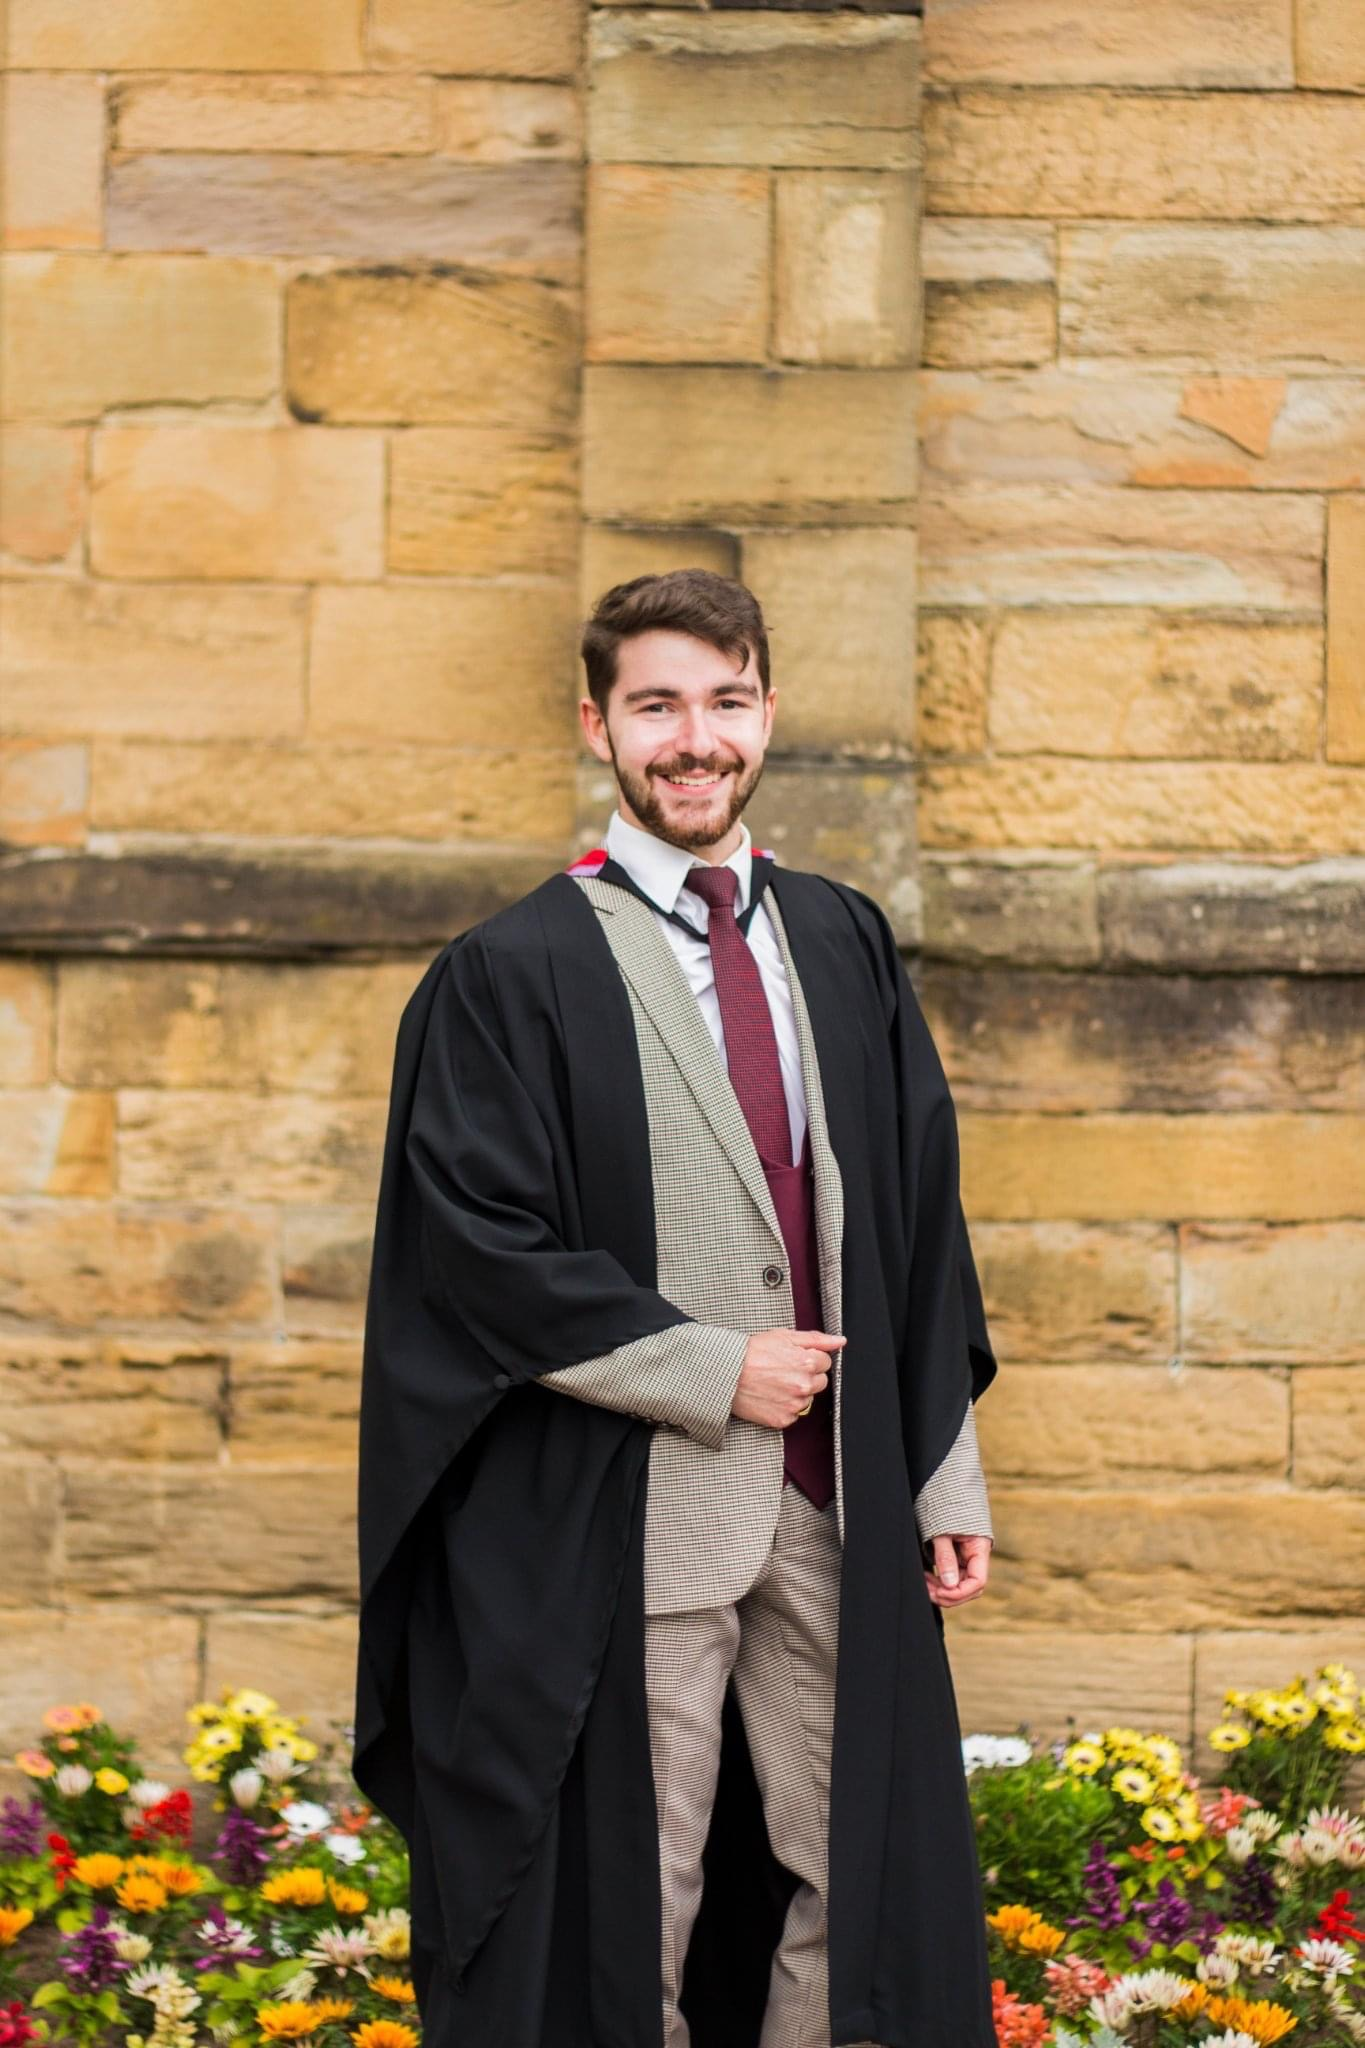
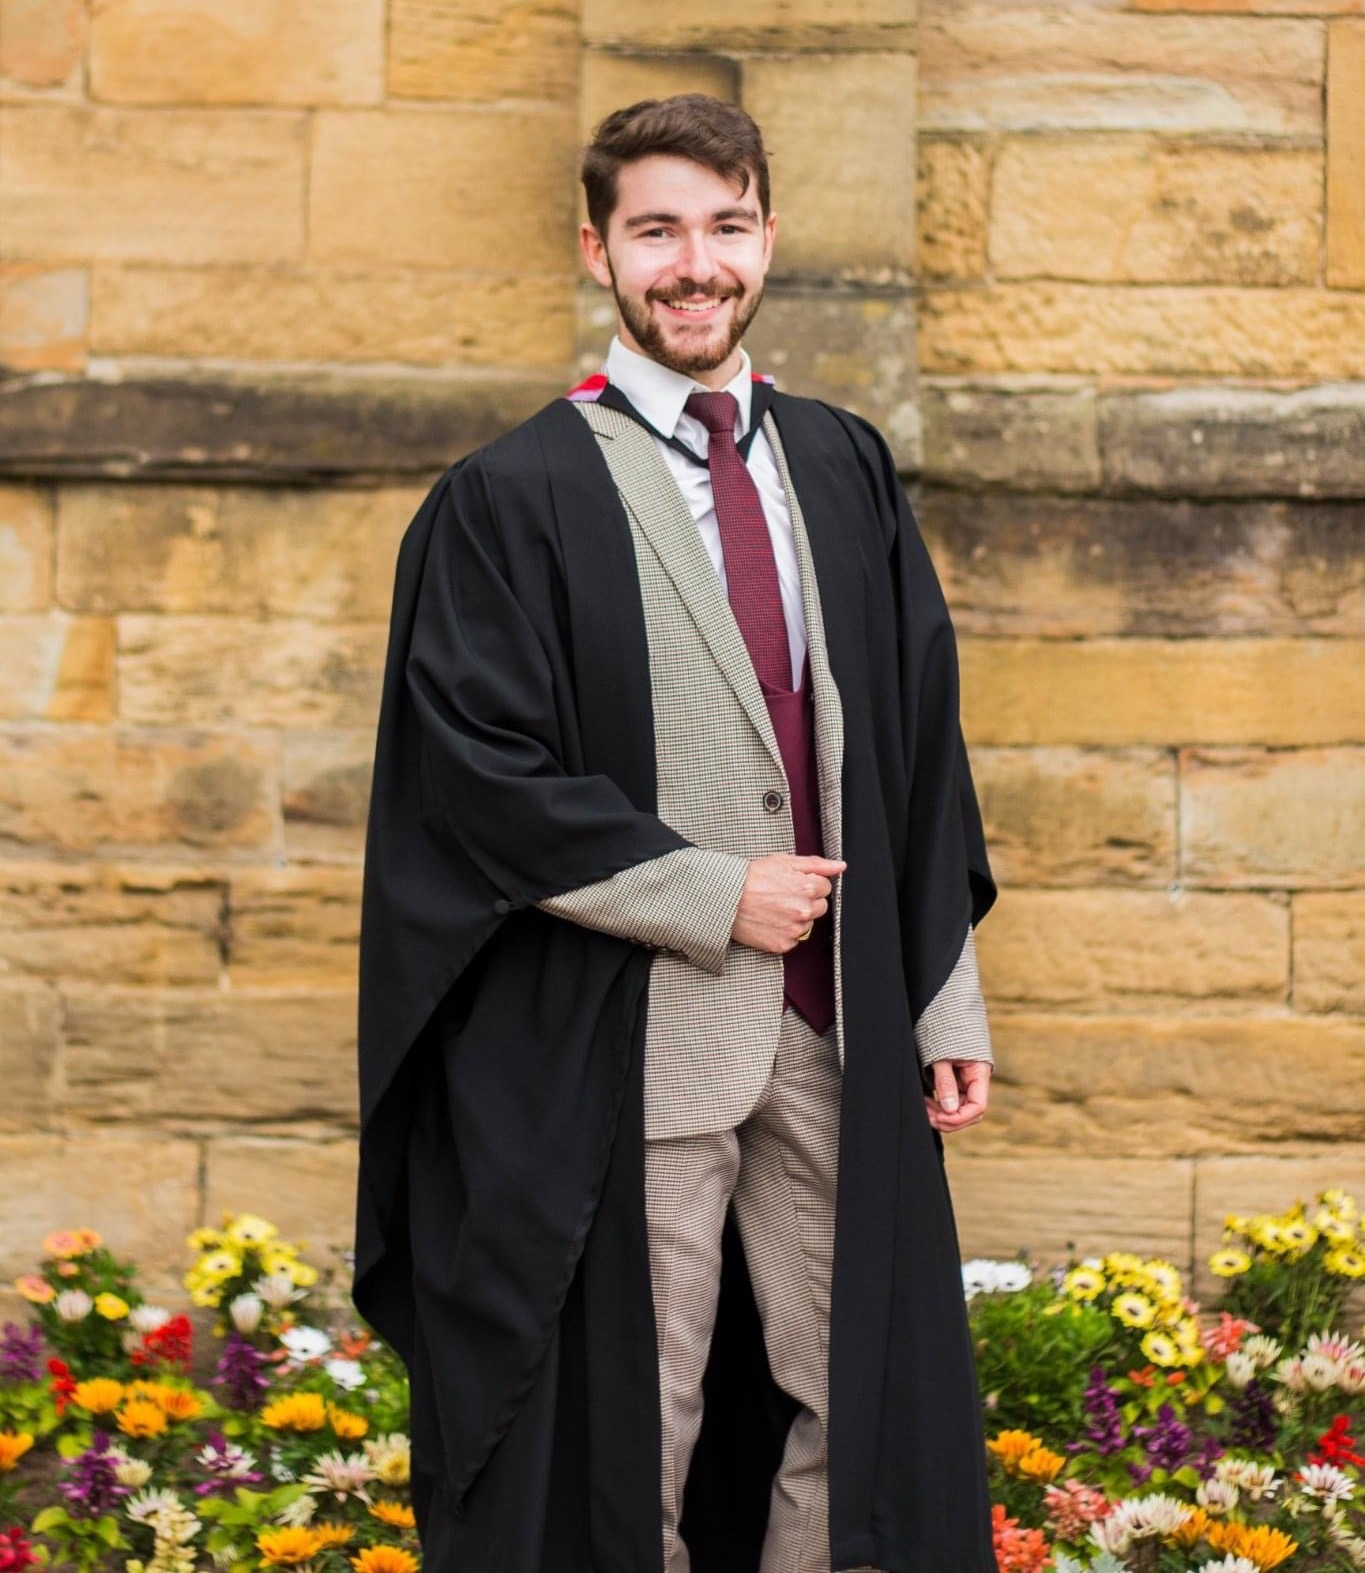
updated to show graduated

diff --git a/index.html b/index.html
@@ -86,50 +86,51 @@
 
         <div class="row">
           <div class="col-lg-4">
-            <img src="assets/img/profile-img2.jpg" class="img-fluid" alt="" style="border-radius: 25px;">
+            <img src="assets/img/FullBW.JPEG" class="img-fluid" alt="" style="border-radius: 25px;">
           </div>
           <div class="col-lg-8 pt-4 pt-lg-0 content">
             <h2 style="text-transform: none; font-weight: 500;">Hello World.</h2>
             <p class="fst-italic">
-              I am a high-achieving computer science undergraduate with relevant industry experience in risk, finance
-              and treasury technology, mental health services and customer-facing sales roles. I am self-motivated, a
-              dedicated problem finder &amp; solver and have had the opportunity to collaborate with a diverse and
-              varied group of people.
+              I am a high-achieving computer science graduate with relevant industry experience in risk, finance and
+              treasury technology, distributed cloud resource monitoring, Agile workflows and customer-facing sales roles.
+              I am a self-motivated, dedicated problem finder & solver and have had the opportunity to collaborate with
+              a diverse and varied group of people.
 
-              <br><br>Combining this experience with 7 years of computer science study has allowed me to gain experience
-              with a breadth of technologies and more importantly, the ability to adapt, educate and innovate within a
-              changing technology stack.
+              <br><br>Combining this experience with 8 years of computer science study has allowed me to develop skills with a
+              breadth of technologies and more importantly, the ability to adapt, educate and innovate within a changing
+              technology stack. These studies culminated in achieving a grade of 81% in my dissertation which I hope to
+              soon publish.
 
-              <br><br>Through industrial and personal experience, I have developed scientific models, automated
-              reporting processes, contributed educational resources to national programmes and taken ownership of
-              multiple projects.<br>
+              <br><br>Through industrial and personal experience, I have developed scientific models, automated reporting
+              processes, contributed educational resources to national programmes and investigated cybersecurity flaws
+              applying to over 75% of the UK population.
             </p>
             <div class="row">
               <div class="col-lg-6">
                 <ul>
                   <li></li>
-                  <li><i class="bi bi-chevron-right"></i> <strong>Graduating:</strong> <span>1 July 2022</span></li>
+                  <li><i class="bi bi-chevron-right"></i> <strong>Graduated:</strong> <span>28th of June 2022</span></li>
                   <li><i class="bi bi-chevron-right"></i> <strong>University:</strong> <span>Durham University,
                       UK</span></li>
                   <li><i class="bi bi-chevron-right"></i> <strong>Course:</strong> <span>Computer Science</span></li>
                   <li><i class="bi bi-chevron-right"></i> <strong>Degree:</strong> <span>Masters of Engineering</span>
                   </li>
+                  <li><i class="bi bi-chevron-right"></i> <strong>Classification:</strong> <span>First Class (Hons)</span></li>
                 </ul>
               </div>
               <div class="col-lg-6">
                 <ul>
                   <li></li>
-                  <li><i class="bi bi-chevron-right"></i> <strong>Location:</strong> <span>West Midlands, UK</span></li>
+                  <li><i class="bi bi-chevron-right"></i> <strong>Location:</strong> <span>London, UK</span></li>
                   <li><i class="bi bi-chevron-right"></i> <strong>Relocation:</strong> <span>Possible</span></li>
-                  <li><i class="bi bi-chevron-right"></i> <strong>Employment:</strong> <span>Available</span></li>
+                  <li><i class="bi bi-chevron-right"></i> <strong>Employment:</strong> <span>Incoming SDE at Amazon</span></li>
                   <li><i class="bi bi-chevron-right"></i> <strong>Email:</strong> <span><a
                         href="mailto:josh@jbfh.com">josh@jbfh.com</a></span></span></li>
                 </ul>
               </div>
               <p class="fst-italic">
-                With career goals in Solutions Architecture, Data Science and Software Development, my real goal is to
-                use technology and my creativity to bring a real improvement to the lives of my customers. If you feel
-                that this is the kind of opportunity you might be able to provide, please get in touch!
+                With career goals in Solutions Architecture, Data Science and Software Development, my real objective is
+              to use technology and my creativity to bring a tangible improvement to the lives of my customers.
               </p>
             </div>
           </div>
@@ -151,16 +152,16 @@
           <div class="col-lg-3 col-md-6">
             <div class="count-box">
               <i class="bi bi-diagram-3"></i>
-              <span data-purecounter-start="0" data-purecounter-end="21" data-purecounter-duration="1"
+              <span data-purecounter-start="0" data-purecounter-end="28" data-purecounter-duration="1"
                 class="purecounter"></span>
-              <p>Topics Studied</p>
+              <p>Modules Studied</p>
             </div>
           </div>
 
           <div class="col-lg-3 col-md-6 mt-5 mt-lg-0">
             <div class="count-box">
               <i class="bi bi-percent"></i>
-              <span data-purecounter-start="0" data-purecounter-end="77" data-purecounter-duration="1"
+              <span data-purecounter-start="0" data-purecounter-end="74" data-purecounter-duration="1"
                 class="purecounter"></span>
               <p>Weighted Average</p>
             </div>
@@ -169,7 +170,7 @@
           <div class="col-lg-3 col-md-6 mt-5 mt-md-0">
             <div class="count-box">
               <i class="bi bi-award"></i>
-              <span data-purecounter-start="0" data-purecounter-end="7" data-purecounter-duration="1"
+              <span data-purecounter-start="0" data-purecounter-end="9" data-purecounter-duration="1"
                 class="purecounter"></span>
               <p>Awards &amp; Certificates</p>
             </div>
@@ -302,7 +303,7 @@
                   and have collaborated with a diverse and varied group of
                   people.</em></p>
               <ul>
-                <li>West Midlands, UK</li>
+                <li>London, UK</li>
                 <li><a href="mailto:josh@jbfh.com">josh@jbfh.com</a></li>
                 <li><a href="https://www.linkedin.com/in/jbfh/">https://www.linkedin.com/in/jbfh/</a></li>
                 <li><a href="https://github.com/JBFH-Dev">https://github.com/JBFH-Dev</a></li>
@@ -314,12 +315,13 @@
               <h4>Durham University, UK</h4>
               <h5>2018 - 2022</h5>
               <p><em>MEng Computer Science</em></p>
-              <p>Weighted Average: <b>77.0%</b> (Predicted 1st Class)
+              <p>Weighted Average: <b>74%</b> (1st Class with Honours)
                 <br>Modules studied include:
               </p>
               <ul style="line-height: 0.8em;">
                 <li>Deep Learning and Reinforcement Learning</li>
                 <li>Recommender Systems</li>
+                <li>Cybersecurity</li>
                 <li>Software Engineering</li>
                 <li>Natural Language Processing</li>
                 <li>Computational Modelling in the Humanities and Social Sciences</li>
@@ -348,8 +350,8 @@
               <p><em>Barclays</em></p>
               <ul>
                 <li>Optimized cloud usage reporting time from
-                  hours to minutes with VBA automation.</li>
-                <li>Enabled use of automation tool for
+                  hours to minutes by building a reporting tool made with VBA automation.</li>
+                <li>Enabled use of cloud usage reporting tool for
                   non-technical staff through detailed
                   Confluence documentation.</li>
                 <li>Took ownership and led neurodiversity event
@@ -364,23 +366,20 @@
                 <li>Improved DevOps usage and project
                   management by migrating team from JIRA
                   to Rally.</li>
-                <li>Enforced data quality by performing
-                  reconciliation on ESMA reports.</li>
+                <li>Performed data quality checks across 14 tables and over 3,000,000 records using Hadoop, Excel, SQL
+                  and HIVE to reconcile data for the European Securities and Markets Authority.</li>
                 <li>Accelerated onboarding of incoming
                   graduates through creation of new-starter
                   hub on Confluence.</li>
               </ul>
             </div>
             <div class="resume-item">
-              <h4>Retail assistant</h4>
-              <h5>07/2019 - 09/2019</h5>
-              <p><em>Barbour/Outdoor and Country</em></p>
+              <h4>Bar Staff & Assistant Events Officer</h4>
+              <h5>11/2021 - 07/2022</h5>
+              <p><em>South College, Durham University</em></p>
               <ul>
-                <li>Consistently closed sales on highest value
-                  items in store.</li>
-                <li>Encouraged store organization through stock placement and window branding</li>
-                <li>Helped boost the social media presence of the store through modelling for the company social media
-                </li>
+                <li>Worked within a diverse team to lead and support in-house events, regularly breaking bar revenue
+                  records whilst raising significant money for charity.</li>
               </ul>
             </div>
             <div class="resume-item">
@@ -388,10 +387,21 @@
               <h5>10/2015 - 06/2018</h5>
               <p><em>NHS &amp; CYP-IAPT</em></p>
               <ul>
-                <li>Re-focussed Derby University CBT course to
-                  centre on the patient as a customer.</li>
-                <li>Updated senior staff on the customer
-                  experience, at regional board meetings.</li>
+                <li>Assisted in re-focussing the Derby University CBT training course to centre on the patient as an end
+                customer.</li>
+                <li>Presented at regional board meetings to update senior staff with customer experience.</li>
+                <li>Enforced quality service across hospitals in the midlands through audits, interviews and board
+                  meetings with NHS trusts.</li>
+              </ul>
+            </div>
+            <div class="resume-item">
+              <h4>Actor</h4>
+              <h5>07/2008 - 07/2016</h5>
+              <p><em>TrEAD Stage School</em></p>
+              <ul>
+                <li>Performed within multiple teams to develop and perform musicals with professional
+                  west-end choreographers and directors.</li>
+                <li>Acquired leading roles in venues across the country, most notably the Manchester Palace Theatre.</li>
               </ul>
             </div>
           </div>
